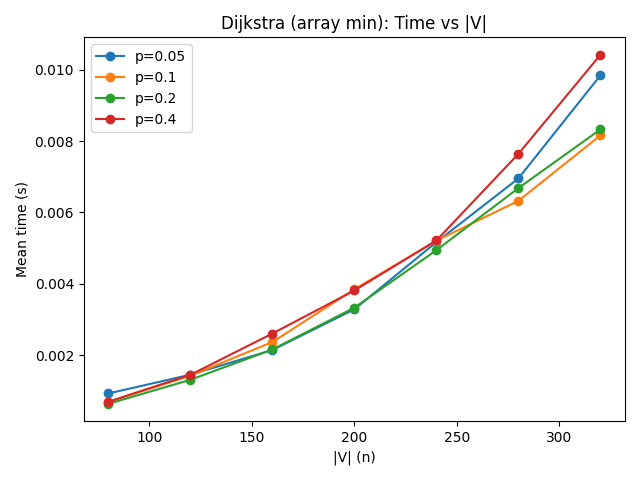
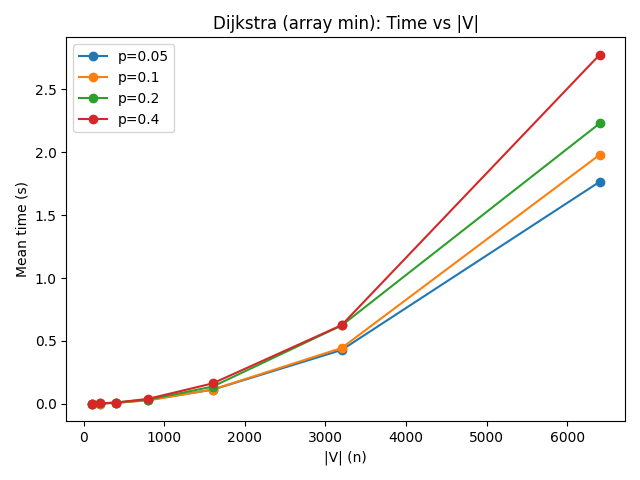
Combined

diff --git a/Dijkstra Priority.py b/Dijkstra Priority.py
@@ -52,7 +52,7 @@ def time_trial(n, p, trials=3):
     return mean_t, m_avg
 
 def experiment():
-    sizes = [80, 120, 160, 200, 240, 280, 320]
+    sizes = [100, 200, 400, 800, 1600, 3200, 6400]
     ps = [0.05, 0.1, 0.2, 0.4]
     rows = []
     for p in ps:
@@ -117,6 +117,148 @@ def plot_time_vs_n2_plus_m(rows):
     plt.savefig("time vs n^2 + m.png")
     plt.close()
 
+#B
+class MinHeap:
+    def __init__(self):
+        self.heap = []
+
+    def push(self, val):
+        self.heap.append(val)
+        i = len(self.heap) - 1
+        while i > 0 and self.heap[(i - 1) // 2] > self.heap[i]:
+            self.heap[i], self.heap[(i - 1) // 2] = self.heap[(i - 1) // 2], self.heap[i]
+            i = (i - 1) // 2
+
+    def size(self):
+        return len(self.heap)
+
+    def delete(self, value):
+        i = -1
+        for j in range(len(self.heap)):
+            if self.heap[j] == value:
+                i = j
+                break
+        if i == -1:
+            return
+        self.heap[i] = self.heap[-1]
+        self.heap.pop()
+        while True:
+            left = 2 * i + 1
+            right = left + 1
+            smallest = i
+            if left < len(self.heap) and self.heap[left] < self.heap[smallest]:
+                smallest = left
+            if right < len(self.heap) and self.heap[right] < self.heap[smallest]:
+                smallest = right
+            if smallest != i:
+                self.heap[i], self.heap[smallest] = self.heap[smallest], self.heap[i]
+                i = smallest
+            else:
+                break
+
+    def pop(self):
+        out = self.heap[0]
+        self.delete(out)
+        return out
+
+    def heapify(self, i, n):
+        smallest = i
+        left = 2 * i + 1
+        right = left + 1
+
+        if left < n and self.heap[left] < self.heap[smallest]:
+            smallest = left
+        if right < n and self.heap[right] < self.heap[smallest]:
+            smallest = right
+        if smallest != i:
+            self.heap[i], self.heap[smallest] = self.heap[smallest], self.heap[i]
+            self.heapify(smallest, n)
+
+
+def dijkstra_heap(V, adj, src):
+    pq = MinHeap()
+
+    dist = [float('inf')] * V
+
+    pq.push([0, src])
+    dist[src] = 0
+
+    while pq.size():
+        u = pq.pop()[1]
+
+        for x in adj[u]:
+            v, weight = x[0], x[1]
+
+            if dist[v] > dist[u] + weight:
+                dist[v] = dist[u] + weight
+                pq.push([dist[v], v])
+
+    return dist
+
+
+def test(V, E):
+    src = 0
+
+    adj = [[] for _ in range(V)]
+    pairs = {i: [j for j in range(V) if j != i] for i in range(V)}
+    for i in range(E):
+        start = random.choice(list(pairs.keys()))
+        end = random.choice(pairs[start])
+        weight = random.randint(1, 10)
+        adj[start].append([end, weight])
+        adj[end].append([start, weight])
+
+        pairs[start].remove(end)
+        pairs[end].remove(start)
+        if len(pairs[start]) == 0:
+            pairs.pop(start, None)
+        if len(pairs[end]) == 0:
+            pairs.pop(end, None)
+    t = time.time()
+    dijkstra_heap(V, adj, src)
+    t = time.time() - t
+    return t
+
+
+runs = 100
+
+v_values = [100, 200, 400, 800, 1600, 3200, 6400]
+v_times = []
+for i in v_values:
+    avg = 0
+    for _ in range(runs):
+        avg += test(i, i * 2)
+    v_times.append(avg / runs)
+
+plt.figure()
+plt.plot(v_values, v_times, marker="o")
+plt.xlabel("|V| (n)")
+plt.ylabel("Mean time (s)")
+plt.title("Dijkstra (array min): Time vs |V|")
+plt.legend()
+plt.tight_layout()
+plt.savefig("time vs v (heap).png")
+plt.close()
+
+e_values = [100, 200, 400, 800, 1600, 3200, 6400]
+e_times = []
+for i in e_values:
+    avg = 0
+    for _ in range(runs):
+        avg += test(i // 2, i)
+    e_times.append(avg / runs)
+
+plt.figure()
+plt.plot(e_values, e_times, marker="o")
+plt.xlabel("|E| (n)")
+plt.ylabel("Mean time (s)")
+plt.title("Dijkstra (array min): Time vs |E|")
+plt.legend()
+plt.tight_layout()
+plt.savefig("time vs e (heap).png")
+plt.close()
+
+
 #C
 def time_comparision(n, p, trials=3):
     times_array, times_heap, ms = [], [], []
@@ -132,7 +274,7 @@ def time_comparision(n, p, trials=3):
 
         # Heap
         t2 = time.perf_counter()
-        #dijkstra_heap(V, E, start=0)
+        dijkstra_heap(V, E, 0)
         t3 = time.perf_counter()
         times_heap.append(t3 - t2)
 
@@ -141,7 +283,7 @@ def time_comparision(n, p, trials=3):
             sum(ms)/len(ms))
 
 def experiment_comparision():
-    sizes = [80, 120, 160, 200, 240, 280, 320]
+    sizes = [100, 200, 400, 800, 1600, 3200, 6400]
     ps = [0.05, 0.1, 0.2, 0.4]
     rows = []
     for p in ps:
